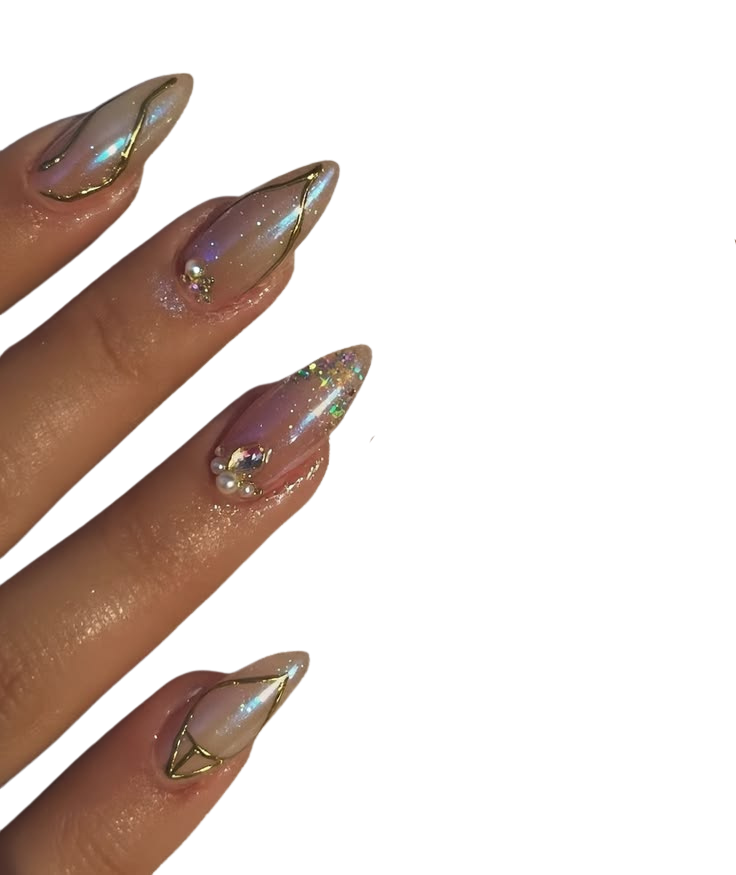
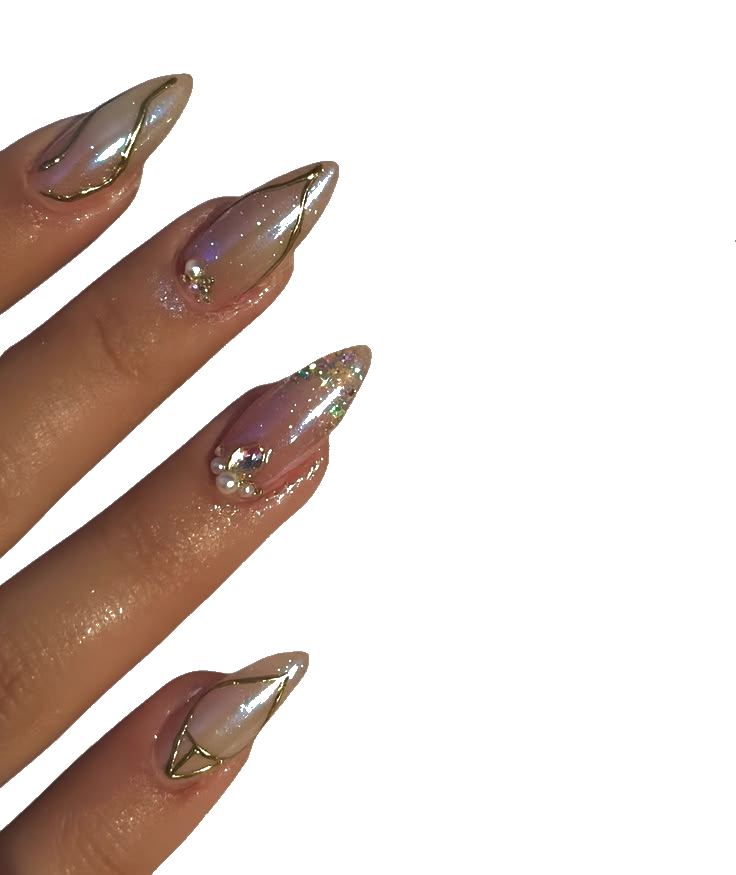
minor set up preparation

diff --git a/k1aws/app/page.tsx b/k1aws/app/page.tsx
@@ -7,19 +7,20 @@ import rightNail from "../public/rightNails.png";
 export default function Home() {
   return (
     <div>
-      <TopMenuBar/>
-      {/* <Image src={leftNail} style={{  transform: "rotate(90deg)", width: "200px"}}  alt="home page with nails posing"/> */}
-      <div style={{ display: "flex", justifyContent: "center", fontWeight: "bold", fontSize: "55px", marginTop: "12rem" }}>
-        K1aws By Kai
-      </div>
 
-      <div>
-      </div>
-      <div style={{ display: "flex", alignContent: "center" ,justifyContent: "center", fontSize: "25px", textAlign: "center", maxWidth: "3" }}>
-        <div style={{width: "33%"}}>Me</div>
-        <div style={{width: "33%"}}>Policies</div>
-        <div style={{width: "33%"}}>Pricing</div>
-      </div>
+        <TopMenuBar />
+        <Image src={leftNail} style={{  transform: "rotate(90deg)", width: "200px"}}  alt="home page with nails posing"/>
+        <div style={{ display: "flex", justifyContent: "center", fontWeight: "bold", fontSize: "55px", marginTop: "12rem" }}>
+          K1aws By Kai
+        </div>
+        <div>
+
+        </div>
+        <div style={{ display: "flex", alignContent: "center", justifyContent: "center", fontSize: "25px", textAlign: "center", maxWidth: "3" }}>
+          <div style={{ width: "33%" }}>Me</div>
+          <div style={{ width: "33%" }}>Policies</div>
+          <div style={{ width: "33%" }}>Pricing</div>
+        </div>
 
     </div>
   );

diff --git a/k1aws/drizzle.config.ts b/k1aws/drizzle.config.ts
@@ -1,0 +1,12 @@
+import { config } from 'dotenv';
+import { defineConfig } from 'drizzle-kit';
+config({ path: '.env' });
+export default defineConfig({
+  schema: './src/db/schema.ts',
+  out: './migrations',
+  dialect: 'turso',
+  dbCredentials: {
+    url: process.env.TURSO_CONNECTION_URL!,
+    authToken: process.env.TURSO_AUTH_TOKEN!,
+  },
+});

diff --git a/k1aws/app/components/TopMenuBar.tsx b/k1aws/app/components/TopMenuBar.tsx
@@ -3,11 +3,9 @@
 export default function TopMenuBar() {
 
     return (
-        <div style={{ display: "absolute",  margin: ".5rem", marginRight: "1rem" }}>
+        <div style={{ display: "flex", margin: ".5rem", marginRight: "1rem" }}>
 
-
-
-            <div>
+            <div style={{display: "absolute", right: "0"}}>
                 <div data-quantity="0" className="btn-cart">
                     <svg className="icon-cart" viewBox="0 0 24.38 30.52" height="30.52" width="24.38"
                         xmlns="http://www.w3.org/2000/svg">